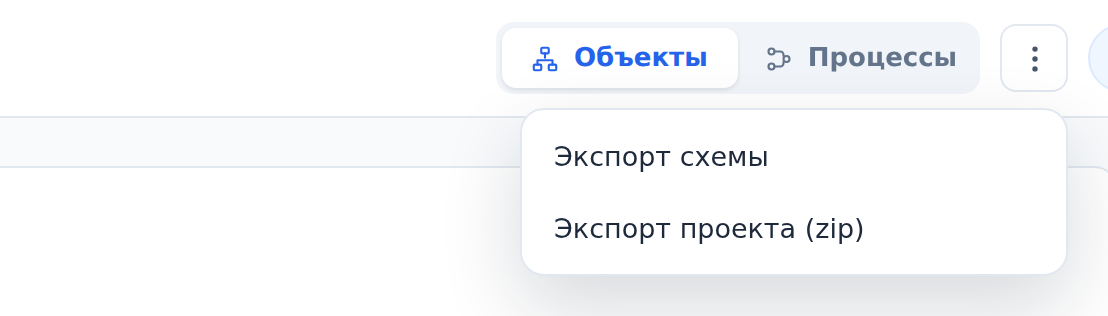
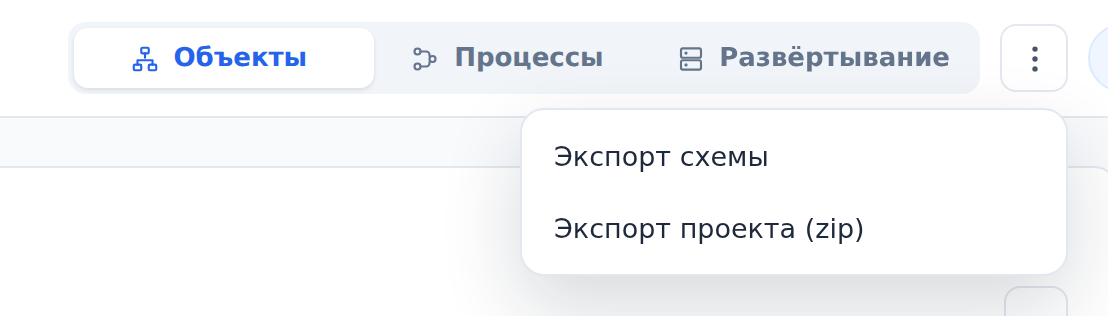
docs: экспорт объекта с вложенными и кадр меню «Действия со схемой»
На странице объекта пункт экспорта называется «Экспорт объекта с вложенными»
(был «Экспорт поддерева»). Кадр export-menu.png переснят на стенде archmap_docs
учёткой читателя, как и раньше: пункты читателя не менялись, в шапке теперь три
режима (Объекты, Процессы, Развёртывание).

diff --git a/content/user/export.md b/content/user/export.md
@@ -15,7 +15,7 @@ order: 16
     - страницу проекта, чтобы выгрузить схему всего проекта;
     - страницу объекта, чтобы выгрузить объект вместе со всеми вложенными объектами.
 2. В правом верхнем углу нажмите кнопку **Действия со схемой** (три точки). Откроется меню.
-3. В меню выберите **Экспорт схемы** (на странице объекта пункт называется **Экспорт поддерева**). Откроется окно с текстом YAML.
+3. В меню выберите **Экспорт схемы** (на странице объекта пункт называется **Экспорт объекта с вложенными**). Откроется окно с текстом YAML.
 4. В окне нажмите **Скопировать**. Текст скопируется в буфер обмена.
 
 ![Меню Действия со схемой](../images/export-menu.png "Меню Действия со схемой на странице проекта")
